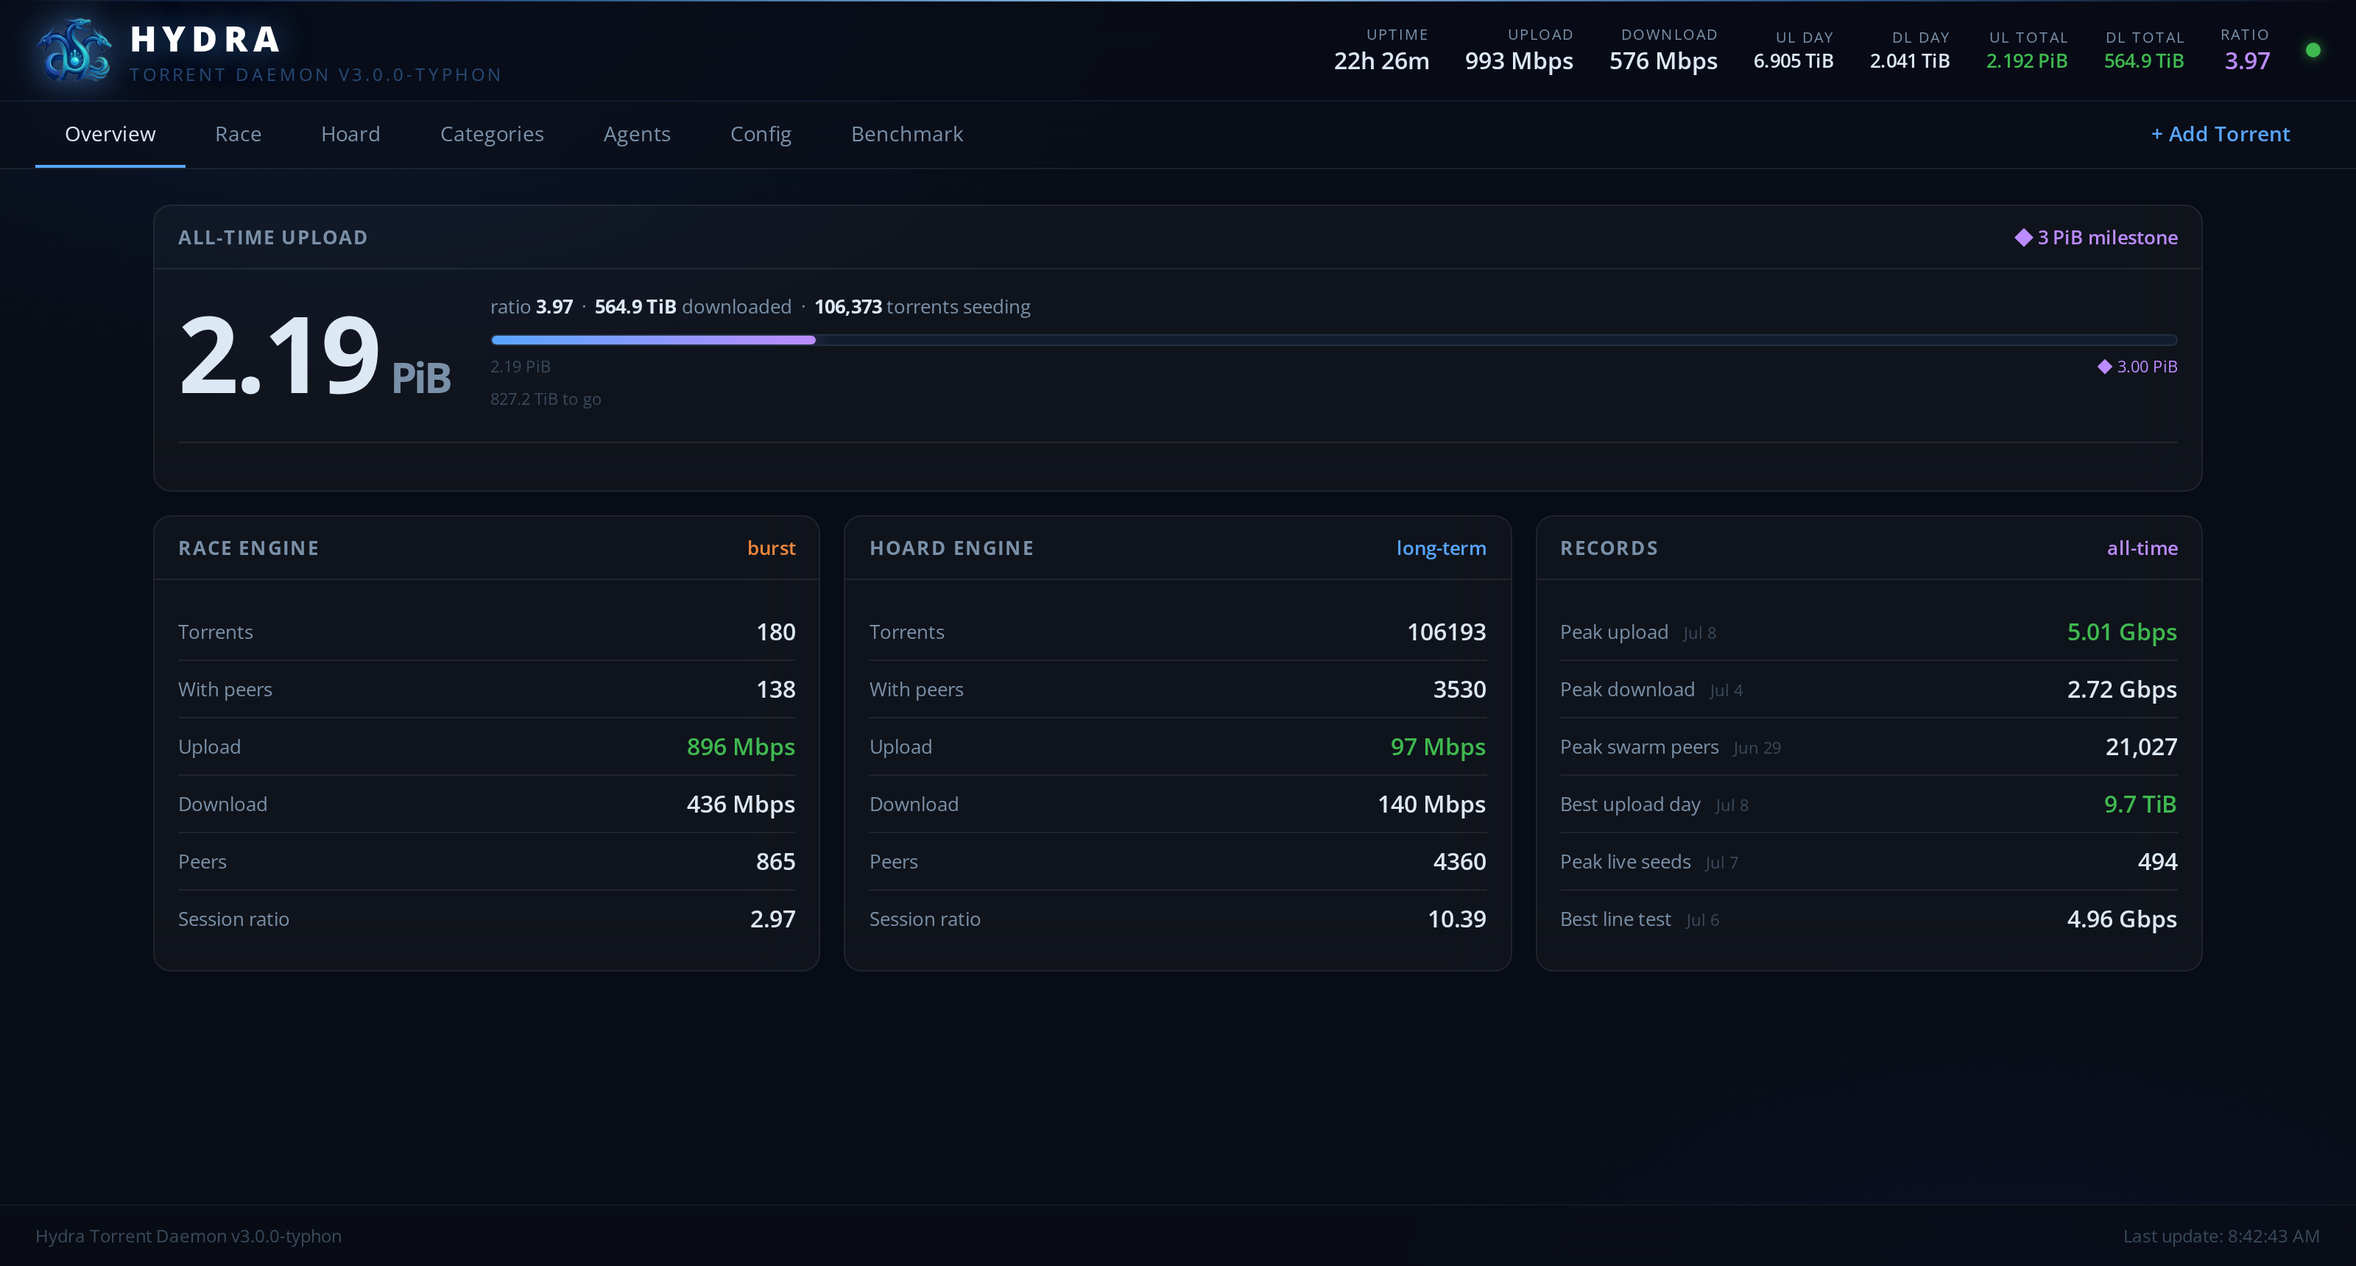
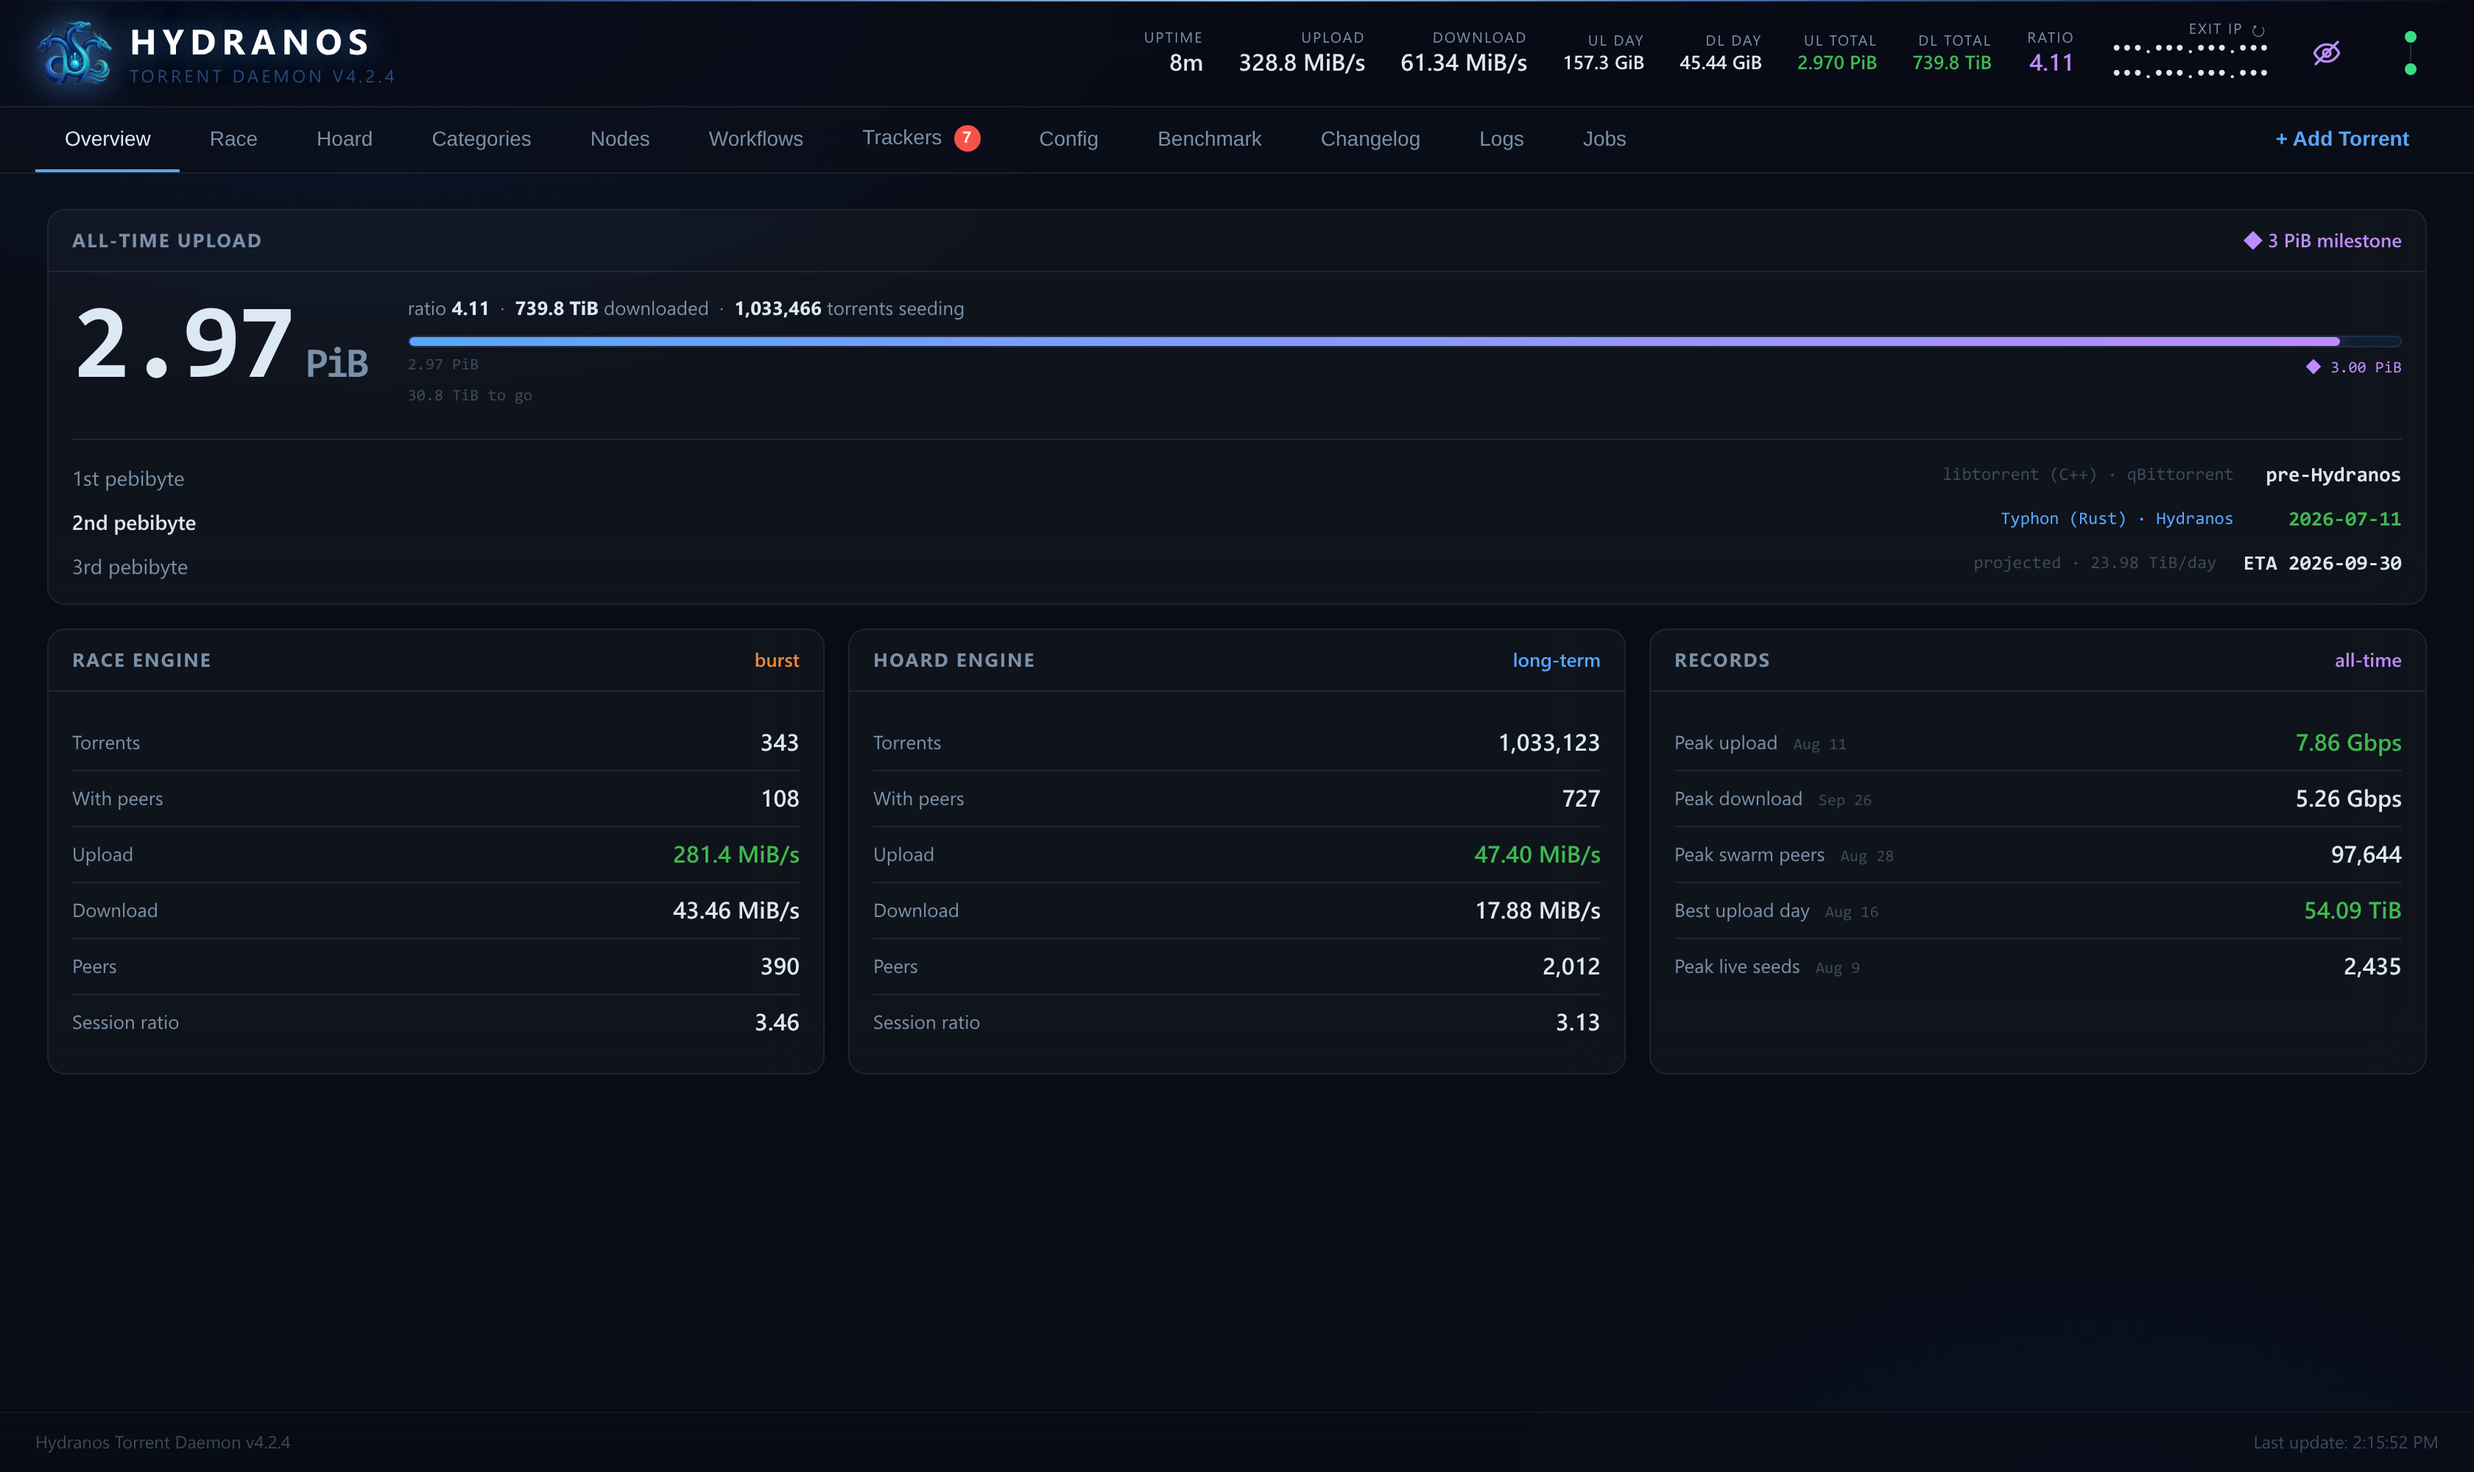
docs: a README for a million torrents
- Over a million torrents in production; the headline and "Why" updated.
- "Stay light" gives both scales in the same form (total, then per torrent).
- A Race section: one finished race in detail.
- Fresh screenshots of every tab at 1,03 M torrents, in incognito mode.
- The four-client comparison at 290,000 torrents moves to docs/scale-290k.md;
  the README only links it.

diff --git a/README.md b/README.md
@@ -1,103 +1,125 @@
 # Hydranos
 
-A self-hosted BitTorrent daemon built for **scale and seeding**: a Go control
-plane driving a purpose-built Rust engine ("Typhon"). Hydranos holds **100k+
-torrents** in a single instance, exposes a live web UI, a native REST API, and a
-qBittorrent-compatible shim so your existing `*arr` / autobrr / cross-seed setup
-just works.
+A self-hosted BitTorrent daemon built for **scale and seeding**: one Rust
+process ("Typhon") holding a very large catalogue and keeping every torrent of
+it announced. Hydranos runs **over a million torrents in a single instance** in
+production today. It exposes a live web
+UI, a native REST API, and a qBittorrent-compatible shim so your existing
+`*arr` / autobrr / cross-seed setup keeps working unchanged.
 
-> Status: Hydranos is being opened up from a private homelab project. It is used in
-> production but some rough edges remain; issues and PRs welcome.
+> Status: opened up from a private homelab project. It is used in production
+> but some rough edges remain; issues and PRs welcome.
 
 ---
 
 ## Why Hydranos?
 
-- **Two engine roles.** A **race** session (aggressive, low-latency, for hot
-  downloads) and a **hoard** session (upload-optimized, for long-term seeding),
-  each tuned independently. You can also run any number of extra engines.
-- **Scales.** Tens of thousands of torrents per instance, with a push-based
-  (SSE) UI that streams the torrent list instead of shipping giant REST blobs.
-- **Flexible networking.** Direct, SOCKS5 egress, a lightweight PROXY-v2 relay
-  (change your seedbox's public IP without a VPN tunnel), or gluetun with
-  **hot listen-port rebind** (no restart when your VPN's forwarded port rotates).
-- **Distributed.** Run engines across several machines and aggregate them behind
-  one front; route new torrents per-category with placement/strategy and a
-  save-path per agent.
-- **Data-aware adds.** Add a torrent whose data is already on disk (a re-add, a
-  cross-seed, or a half-finished download) and Hydranos hash-checks what's there
-  instead of blindly re-downloading over it: verified pieces are kept and
-  served, the rest is fetched.
-- **Drop-in.** A qBittorrent v2 API shim means autobrr, Sonarr/Radarr,
-  cross-seed, etc. talk to Hydranos unchanged.
+Most BitTorrent clients are designed around a few thousand torrents, and do
+that very well. At hundreds of thousands the constraints change: how long the
+client takes to start, and whether every torrent is still announced on
+schedule. A torrent the tracker has not heard about is a torrent nobody
+downloads from you. Hydranos is built around those two constraints, and around
+three uses of one instance:
+
+- **Hoard.** Seed a very large library and keep all of it announced: over
+  a million torrents in production today.
+- **Race.** Grab and seed new releases fast. Hydranos runs a *race* engine and
+  a *hoard* engine side by side in one process, each tuned for its job, so a
+  large library never slows a race down.
+- **Stay light.** Serving 50,000 torrents takes 877 MiB of RAM (about
+  18 KiB per torrent) and 0.12 of a CPU core; holding 290,000 takes 2.8 GiB
+  (about 10 KiB per torrent).
+
+How Hydranos and other clients behave at [50,000](docs/benchmarks.md) and
+[290,000 torrents](docs/scale-290k.md), measured on the same machine.
+
+And your automation keeps working: the qBittorrent v2 API shim means
+Sonarr/Radarr, autobrr and cross-seed talk to Hydranos unchanged.
+
+If you seed a few hundred torrents, qBittorrent or Transmission will serve you
+with less to learn.
+
+Also in the box: SOCKS5 / PROXY-v2 relay / gluetun networking with hot
+listen-port rebind, engines spread over several machines behind one front, and
+adds that hash-check data already on disk instead of downloading over it.
+
+---
+
+## For tracker operators
+
+What Hydranos puts on the wire is documented, rule by rule, in
+**[`docs/BITTORRENT-CONFORMANCE.md`](docs/BITTORRENT-CONFORMANCE.md)**. Every
+claim there names the test that asserts it, and the suite runs offline in a few
+seconds against a real HTTP tracker on loopback, so it can be checked rather
+than believed. In short:
+
+- **One announce per torrent per interval**, at the cadence the tracker sets;
+  `min interval` is a floor, BEP 12 tier order is respected, and a circuit
+  breaker per host stops calling a tracker that has stopped answering.
+- **`started`, `completed` and `stopped` are sent, and so is `key`**, each
+  covered by a test.
+- **One identity.** Peer id `-HY####-`, the same to every tracker and every
+  peer.
+- **Private torrents stay private** (BEP 27): no DHT, PEX or LSD.
+- **HTTP trackers only.** No scrape requests either: swarm counts come from
+  the announce response.
 
 ---
 
 ## Screenshots
 
+All screenshots below are taken with **incognito mode on**: torrent names,
+categories, paths, IPs and tracker hostnames are replaced by stable fakes.
+
 **Overview** — live dashboard: global up/down, seeding/leeching counts,
-per-session throughput, all streamed over SSE.
+per-session throughput.
 
 ![Overview](docs/img/hydra_01_overview.png)
 
-**Race** — per-torrent detail with live peer speed and progress timelines for
-the hot download you're racing.
+**Race** — one finished race in detail: where it placed in the swarm, how
+the download went, which peers it came from, and what it has uploaded since.
 
-![Race timeline](docs/img/hydra_02_race_timeline.png)
+![Race](docs/img/hydra_02_race_timeline.png)
 
-**Hoard** — the long-term seeding set: tens of thousands of torrents in one
-virtualized, push-updated table.
+**Hoard** — the long-term seeding library, filtered by tracker, state and
+category.
 
 ![Hoard](docs/img/hydra_03_hoard.png)
 
-**Agents** — run engines across several machines and manage them from one
-front: status, free space, and per-engine roles.
+**Trackers** — one row per tracker actually announced to: passkey override,
+announce IP family, seed obligation, and the errors seen in the last hour.
 
-![Agents](docs/img/hydra_04_agents.png)
+![Trackers](docs/img/hydra_06_trackers.png)
 
-**Benchmark** — built-in throughput history so you can see exactly what your
-box sustains.
+**Benchmark** — traffic per engine, disk and cache health, and whether the
+announces keep up with the catalogue, from fifteen minutes to thirty days;
+plus a line speedtest and a before/after comparison around a change.
 
 ![Benchmark](docs/img/hydra_05_benchmark.png)
 
----
+**Workflows** — rules over the library, built from conditions and actions and
+previewed before they run. Here: tag every torrent in the media categories whose
+files have no hardlink outside Hydranos, i.e. that can be deleted without
+losing anything.
 
-## Give Hydranos time to stop
-
-On SIGTERM Hydranos saves its store and then asks each engine to flush its resume
-data. Docker kills a container ten seconds after SIGTERM by default, which is
-not enough to get through both engines: the flush is cut short and the next
-start re-checks pieces that were already complete.
-
-The bundled [`docker-compose.yml`](docker-compose.yml) sets
-`stop_grace_period: 30s` for you. If you run Hydranos with a plain `docker run`,
-pass the same budget yourself:
-
-```bash
-docker run --stop-timeout 30 ...      # and: docker stop -t 30 hydra
-```
-
-Each engine gets ten seconds of that budget, and the two are stopped one after
-the other. If you hold several hundred thousand torrents the sweep takes
-longer -- raise `HYDRANOS_STOP_TIMEOUT` (e.g. `45s`) and keep the supervisor's
-grace period above twice that.
+![Workflows](docs/img/hydra_07_workflows.png)
 
 ---
 
 ## Documentation
 
 Install steps, architecture, every networking mode and the edge cases live in
-the **[Wiki](https://github.com/Kheopsian/Hydra/wiki)**:
+the **[Wiki](https://github.com/Kheopsian/Hydranos/wiki)**:
 
-- [Installation & First Run](https://github.com/Kheopsian/Hydra/wiki/Installation-and-First-Run)
-- [Architecture](https://github.com/Kheopsian/Hydra/wiki/Architecture)
-- [Networking Modes](https://github.com/Kheopsian/Hydra/wiki/Networking-Modes)
-- [Deployment Topologies](https://github.com/Kheopsian/Hydra/wiki/Deployment-Topologies)
-- [Categories & Routing](https://github.com/Kheopsian/Hydra/wiki/Categories-and-Routing)
-- [Adding Torrents & Existing Data](https://github.com/Kheopsian/Hydra/wiki/Adding-Torrents-and-Existing-Data)
-- [qBittorrent Shim & Automation](https://github.com/Kheopsian/Hydra/wiki/qBittorrent-Shim-and-Automation)
-- [Configuration Reference](https://github.com/Kheopsian/Hydra/wiki/Configuration-Reference)
-- [Troubleshooting](https://github.com/Kheopsian/Hydra/wiki/Troubleshooting)
+- [Installation & First Run](https://github.com/Kheopsian/Hydranos/wiki/Installation-and-First-Run)
+- [Architecture](https://github.com/Kheopsian/Hydranos/wiki/Architecture)
+- [Networking Modes](https://github.com/Kheopsian/Hydranos/wiki/Networking-Modes)
+- [Deployment Topologies](https://github.com/Kheopsian/Hydranos/wiki/Deployment-Topologies)
+- [Categories & Routing](https://github.com/Kheopsian/Hydranos/wiki/Categories-and-Routing)
+- [Adding Torrents & Existing Data](https://github.com/Kheopsian/Hydranos/wiki/Adding-Torrents-and-Existing-Data)
+- [qBittorrent Shim & Automation](https://github.com/Kheopsian/Hydranos/wiki/qBittorrent-Shim-and-Automation)
+- [Configuration Reference](https://github.com/Kheopsian/Hydranos/wiki/Configuration-Reference)
+- [Troubleshooting](https://github.com/Kheopsian/Hydranos/wiki/Troubleshooting)
 
 API reference: [`docs/API.md`](docs/API.md). Companion VPS relay:
 [hydra-relay](https://github.com/Kheopsian/hydra-relay).

diff --git a/docs/scale-290k.md b/docs/scale-290k.md
@@ -1,0 +1,52 @@
+# Four clients at 290,000 torrents
+
+At 50,000 torrents every client we tried works (see
+[`benchmarks.md`](benchmarks.md)). This page is about roughly six times that,
+which is far outside what most clients are designed for. None of what follows
+is a bug report: each client makes reasonable choices for the libraries its
+users actually have, and those choices only start to show at this size.
+
+## How it was measured
+
+Each client stood in for production on the same machine, with the same
+library and the same six real trackers, one after the other between 21 and 24
+September 2026. The Hydranos column is production over the same days, race
+engine included. These are single, sequential runs against live trackers:
+read them as orders of magnitude, not decimals.
+
+The figure that matters most at this size is the announce rate. A
+293,000-torrent catalogue on a 30-minute interval needs about **163 announces
+per second** for every torrent to stay visible to its tracker.
+
+| | Hydranos 4.2 | Transmission 4.1.3 | rtorrent 0.16.24 | qBittorrent 5.2.3 |
+|---|---|---|---|---|
+| Torrents | ~293,000 + race | 286,359 seeding | 286,157 | 286,059 |
+| Cold start to API | 95–125 s | 48 min | 15 h 21 min | 91 min |
+| RSS after load | 2.8 GiB (~10 KiB/torrent) | 12.3 GiB (~44 KiB) | 31.3 GiB (~114 KiB) | 15.6–18.3 GiB (57–64 KiB) |
+| CPU after load | 3.4–3.7 cores (hoard + race) | 0.8–1.0 core | 1.2–1.3 cores | 0.7 core |
+| Announces/s | 146–155 | 13.6 default, 61 with a raised limit | ~4–12 | ~15 default, 86 with a raised limit |
+| Served | ~5 TB/day | 685 GB in 24.8 h (raised limit) | 0.15 GB in 23.7 h | < 0.05 MB/s over ~6 h |
+
+Hydranos uses more CPU than the others here: that figure includes the race
+engine and about 5 TB a day of upload, far more traffic than any of the other
+runs carried.
+
+## What shapes each result
+
+- **Transmission** loads the library in 48 minutes. Its announces are paced by a
+  compiled-in limit of 20 per 500 ms, a sensible default that keeps a client
+  from flooding trackers. In practice it ran at about a third of that pace,
+  and raising the limit fivefold took it from 13.6 to 61 announces a second;
+  what holds it there was neither CPU nor a setting we found.
+- **rtorrent** keeps its torrents in a list, which is simple and fast for the
+  libraries it is usually given; at this size loading grows roughly with the
+  square of the catalogue (28 minutes at 50,000, 15 hours at 286,000). It
+  also opens at most 3 connections per tracker host, a deliberate courtesy to
+  trackers that bounds its announce rate.
+- **qBittorrent** (libtorrent) finds torrents in constant time and loads in
+  91 minutes. Its announce rate is bound by tracker latency rather than by its
+  concurrency setting; raising that setting to 512 brought it to 86 a second.
+
+Hydranos makes the opposite trade-off on purpose: it is built for this size
+first. For a few hundred torrents, qBittorrent or Transmission will serve you
+with less to learn.
